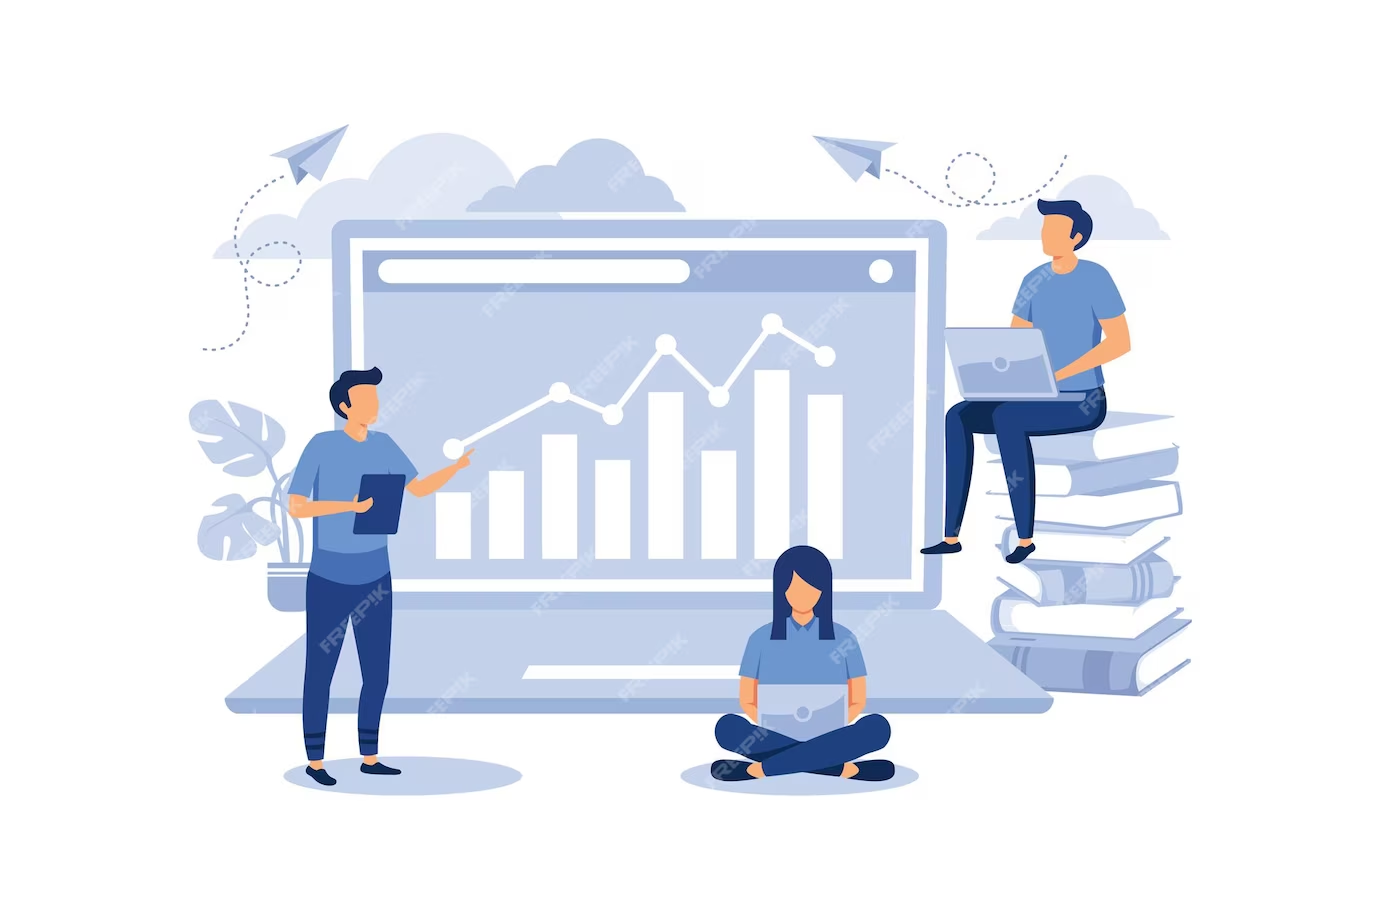
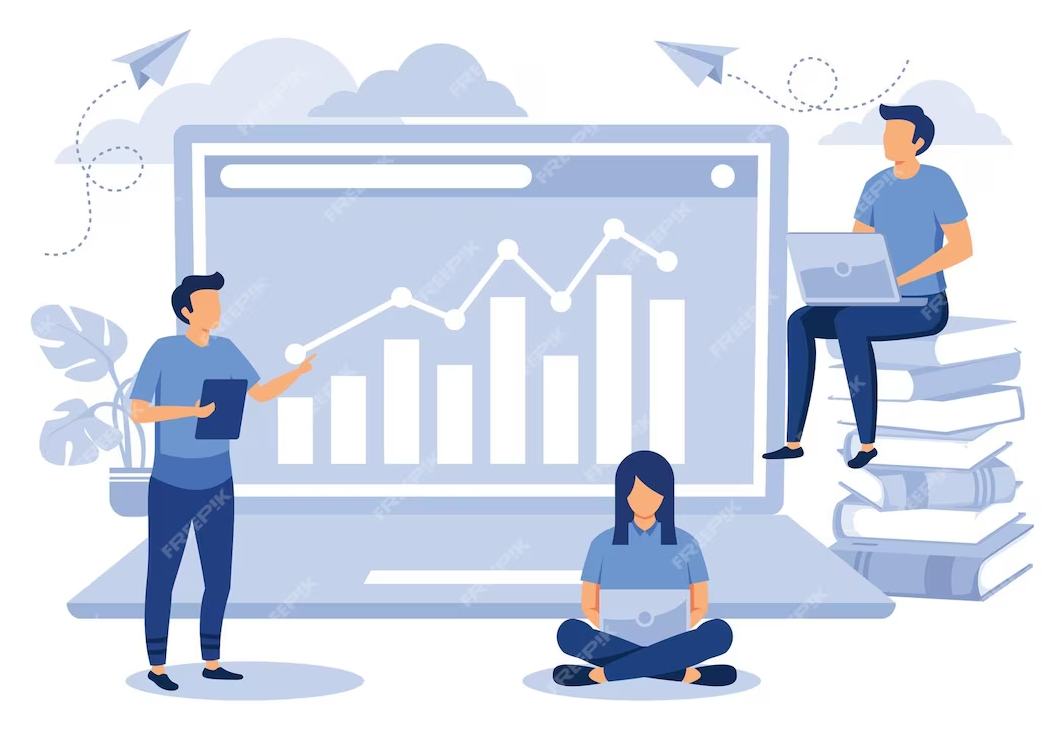
update functions

diff --git a/sms-client/src/component/student/AddStudent.js b/sms-client/src/component/student/AddStudent.js
@@ -1,9 +1,13 @@
+import axios from 'axios';
 import React, { useState } from 'react'
-import {Link} from "react-router-dom";
+import {Link, useNavigate} from "react-router-dom";
+
 
 const AddStudent = () => {
 
-const[student,setStudents]=useState({
+
+let navigate= useNavigate();
+const[student,setStudent]=useState({
     firstName :'',
     lastName  :'',
     address: '',
@@ -11,17 +15,25 @@ const[student,setStudents]=useState({
     email: '',
     degree :'',
     course :''
-})
+});
 
 const{firstName,lastName,address,dob,email,degree,course}=student;
 
-const handleinputChange =(e)=>{
-    setStudents({...student,[e.targer.name] : e.target.value});
-}
+const handleInputChange =(e)=>{
+    setStudent({...student,[e.target.name] : e.target.value});
+};
+
+// save student to database 
+const saveStudent=async(e)=>{
+    e.preventDefault();
+    await axios.post("http://localhost:8080/students/add",student);
+navigate("/view-students");
+};
+
 
   return (
     <div className='col-sm-8 py-2 px-5'>
-        <form>
+        <form onSubmit={(e)=> saveStudent(e)}>
 
             <div className='input-group mb-3'>
                 <label 
@@ -31,12 +43,12 @@ const handleinputChange =(e)=>{
                 </label>
                 <input
                 className='form-control col-sm-6'
-                type='text'
+                type="text"
                 name='firstName'
                 id='firstName'
                 required
                 value={firstName}
-                onChange={(e)=>handleinputChange}
+                onChange={(e)=>handleInputChange(e)}
                 />
             </div>
 
@@ -53,7 +65,7 @@ const handleinputChange =(e)=>{
                 id='lastName'
                 required
                 value={lastName}
-                onChange={(e)=>handleinputChange}
+                onChange={(e)=>handleInputChange(e)}
                 />
             </div>
 
@@ -70,7 +82,7 @@ const handleinputChange =(e)=>{
                 id='address'
                 required
                 value={address}
-                onChange={(e)=>handleinputChange}
+                onChange={(e)=>handleInputChange(e)}
                 />
             </div>
             
@@ -87,7 +99,7 @@ const handleinputChange =(e)=>{
                 id='dob'
                 required
                 value={dob}
-                onChange={(e)=>handleinputChange}
+                onChange={(e)=>handleInputChange(e)}
                 />
             </div>
 
@@ -104,7 +116,7 @@ const handleinputChange =(e)=>{
                 id='email'
                 required
                 value={email}
-                onChange={(e)=>handleinputChange}
+                onChange={(e)=>handleInputChange(e)}
                 />
             </div>
 
@@ -123,7 +135,7 @@ const handleinputChange =(e)=>{
                 id='degree'
                 required
                 value={degree}
-                onChange={(e)=>handleinputChange}
+                onChange={(e)=>handleInputChange(e)}
                 />
             </div>
 
@@ -141,38 +153,30 @@ const handleinputChange =(e)=>{
                 id='course'
                 required
                 value={course}
-                onChange={(e)=>handleinputChange}
+                onChange={(e)=>handleInputChange(e)}
                 />
             </div>
 
-        <div className='Add-btn'>
-
-            <div className='row mb-3'>  
-                <div className='col-sm-2'>
+        
+                <div className='formSubmit'>
                     <button
                     type='submit'
-                    className='btn btn-outline btn-lg border-primary border-custom-btn'>
+                    className="btn btn-secondary btn-sm px-5 py-2">
                     Save
                     </button>
-                </div>
-
-                <div className='col-sm-2'>
+              
                     <Link 
                     to={"/view-students"}
                     type='submit'
-                    className= "btn btn-outline btn-lg border-primary border-custom-btn">
+                    className= "btn btn-secondary btn-sm px-5 py-2">
                     cancel
                     </Link>
                 </div>
-            
-            </div>  
-        </div>
-
 
         </form>
       
     </div>
-  )
-}
+  );
+};
 
-export default AddStudent
+export default AddStudent;

diff --git a/sms-client/src/component/student/AddCourse.js b/sms-client/src/component/student/AddCourse.js
@@ -1,0 +1,92 @@
+import React, { useState } from 'react'
+import {Link} from "react-router-dom";
+
+const AddCourse = () => {
+    const[course,setCourse]=useState({
+        courseName :'',
+        courseCode  :'',
+        description: '',
+    })
+    
+    const{courseName,courseCode,description}=course;
+    
+    const handleinputChange =(e)=>{
+        setCourse({...course,[e.targer.name] : e.target.value});
+    }
+  return (
+    <div className='col-sm-8 py-2 px-5'>
+        <form>
+
+            <div className='input-group mb-3'>
+                <label 
+                className='input-group-text'
+                htmlFor='courseName'>
+                    Course Name
+                </label>
+                <input
+                className='form-control col-sm-6'
+                type='text'
+                name='courseName'
+                id='courseName'
+                required
+                value={courseName}
+                onChange={(e)=>handleinputChange}
+                />
+            </div>
+
+            <div className='input-group mb-3'>
+                <label 
+                className='input-group-text'
+                htmlFor='courseCode'>
+                    Course Code
+                </label>
+                <input
+                className='form-control col-sm-6'
+                type='text'
+                name='courseCode'
+                id='courseCode'
+                required
+                value={courseCode}
+                onChange={(e)=>handleinputChange}
+                />
+            </div>
+
+            <div className='input-group mb-3'>
+                <label 
+                className='input-group-text'
+                htmlFor='description'>
+                    Description
+                </label>
+                <input
+                className='form-control col-sm-6'
+                type='text'
+                name='description'
+                id='description'
+                required
+                value={description}
+                onChange={(e)=>handleinputChange}
+                />
+            </div>
+
+            <div className='formSubmit'>
+                    <button
+                    type='submit'
+                    className="btn btn-secondary btn-sm px-5 py-2">
+                    Add
+                    </button>
+              
+                    <Link 
+                    to={"/view-students"}
+                    type='submit'
+                    className= "btn btn-secondary btn-sm px-5 py-2">
+                    cancel
+                    </Link>
+                </div>
+
+        </form>
+    
+    </div>
+  )
+}
+
+export default AddCourse

diff --git a/sms-client/src/component/student/StudentView.js b/sms-client/src/component/student/StudentView.js
@@ -1,5 +1,7 @@
 import React, { useEffect, useState } from 'react'
 import axios from 'axios';
+import UpdateStudent from './EditStudent';
+import { Link } from 'react-router-dom';
 
 const StudentView = () => {
 
@@ -22,6 +24,17 @@ const StudentView = () => {
         }
         
     };
+
+
+    // delete student function
+
+    const deleteStudent = async(id)=>{
+      await axios.delete(`http://localhost:8080/students/delete/${id}`);
+
+      loadStudents();
+    }
+
+
   return (
     <section className='section'>
       <table className='table table-bordered table-hover shadow'>
@@ -55,21 +68,24 @@ const StudentView = () => {
                    <td>{student.course}</td>
                    <td className='mx-2'>
                     <button
-                      className='btn btn-info'>
+                      className='btn btn-secondary'>
                         View
                     </button>
                     </td>
-                   <td className='mx-2'>
 
-                   <button
-                      className='btn btn-warning'>
+                   <td className='mx-2'>
+                   <Link 
+                      to={`/edit-student/${student.id}`}
+                      className='btn btn-secondary'>
                         update
-                    </button>
+                    </Link>
                    </td>
 
                    <td className='mx-2'>
                    <button
-                      className='btn btn-danger'>
+                      className='btn btn-secondary'
+                      onClick={()=> deleteStudent(student.id)}>
+                    
                         delete
                     </button>
                    </td>

diff --git a/sms-client/src/index.css b/sms-client/src/index.css
@@ -31,7 +31,7 @@ code {
 /* ===================landing page CSS======================*/
 
 .home-title{
-  padding-top:250px;
+  padding-top:200px;
   padding-left: 50px;
   text-align: left;
   position: relative;
@@ -43,7 +43,7 @@ code {
 
 
 .landing-image{
-  padding-left: 450px;
+  padding-left: 550px;
   padding-top: 0;
   position: absolute;
 
@@ -54,8 +54,8 @@ code {
 }
 
 .landing-image img{
-  width: 1057px;
-  height: 811px;
+  width: 700px;
+  height: 500px;
 
 
 }
@@ -65,3 +65,26 @@ code {
 
 
 /*===============================================*/
+
+
+.btn-secondary {
+  background-color: #111C55; /* Your custom primary color */
+  color: white; /* Text color */
+  border-color: #111C55; /* Border color (optional) */
+  margin-right: 20px;
+}
+
+.custom-secondary {
+  background-color: #111C55; /* Your custom secondary color */
+  color: white; /* Text color */
+  border-color: #111C55; /* Border color (optional) */
+}
+
+
+.formSubmit{
+  margin-top: 10px;
+}
+
+btn submit{
+  margin-top: 10px;
+}

diff --git a/sms-client/src/component/common/NavBar.js b/sms-client/src/component/common/NavBar.js
@@ -7,7 +7,7 @@ const NavBar = () => {
  <nav className="navbar navbar-expand-lg bg-body-tertiary mb-5">
   <div className="container-fluid">
     <Link className="nav-link px-3"  to={"/"}>
-    Dashboard
+    Home
     </Link>
     <button 
     className="navbar-toggler" 
@@ -28,6 +28,11 @@ const NavBar = () => {
         <li className="nav-item">
           <Link className="nav-link px-3" to={"/add-students"}>
             Add Students</Link>
+        </li>
+
+        <li className="nav-item">
+          <Link className="nav-link px-3" to={"/add-course"}>
+            Add Courses</Link>
         </li>
       </ul>
     </div>
